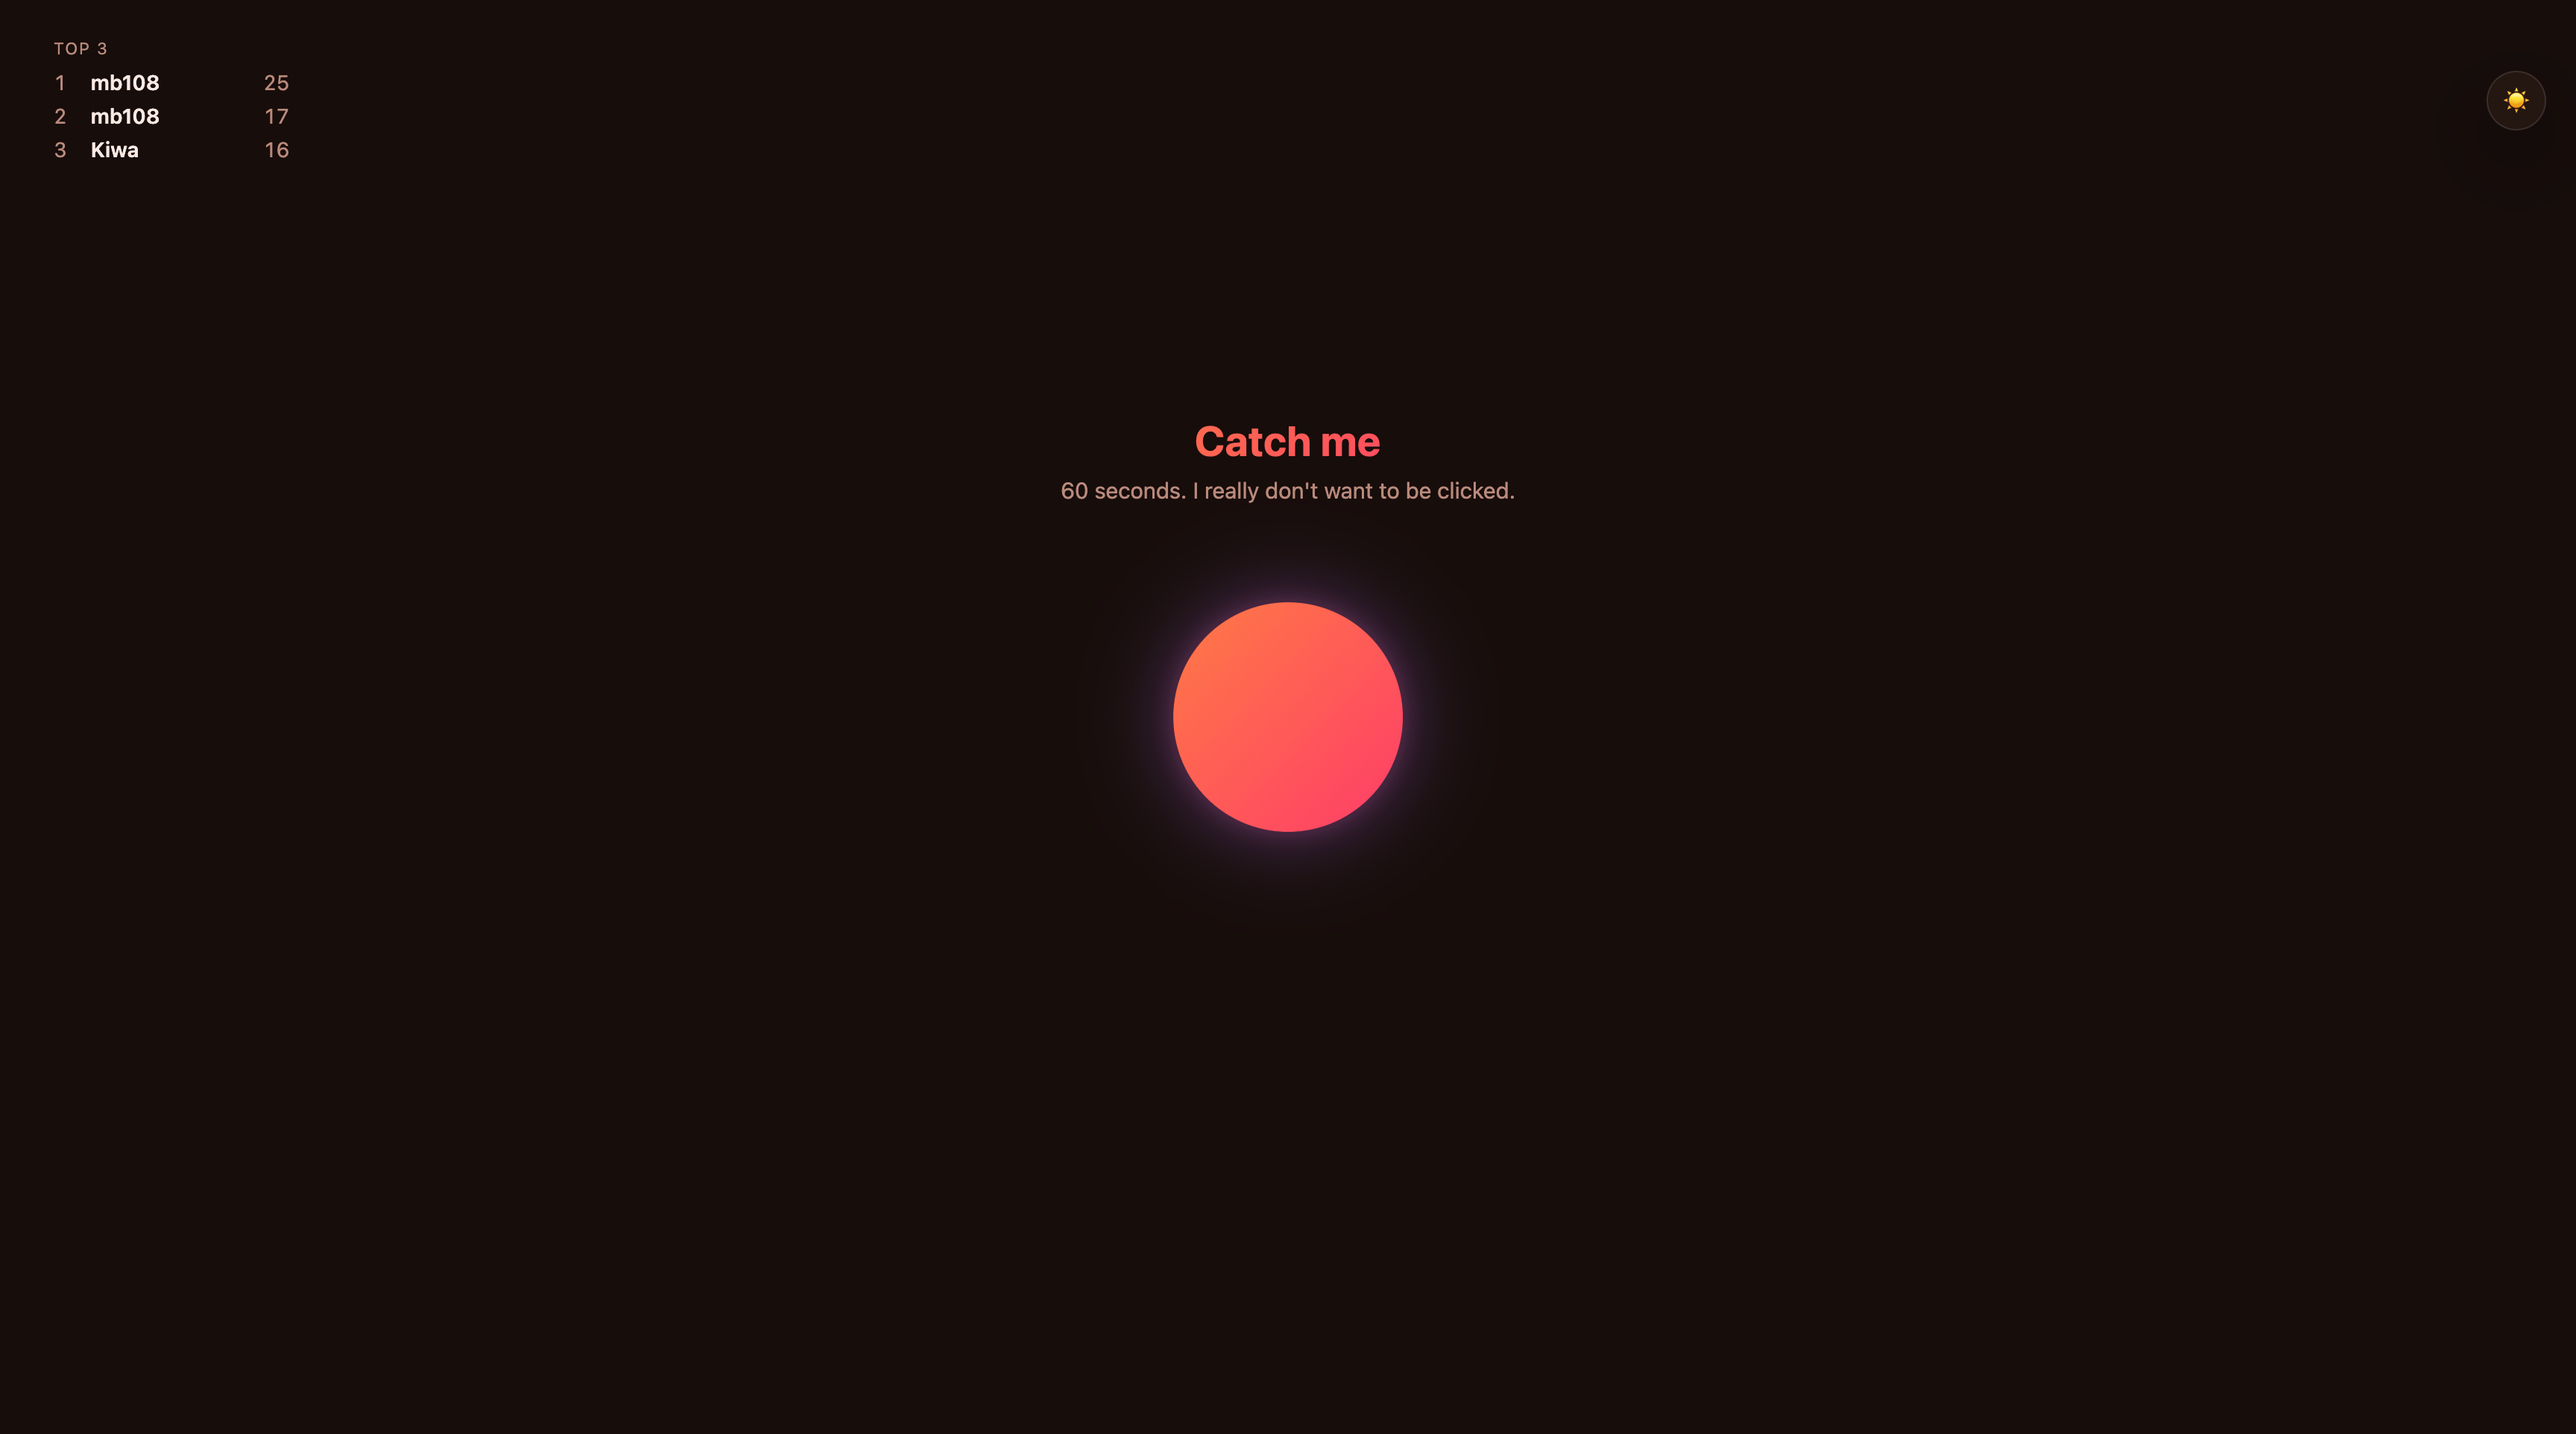
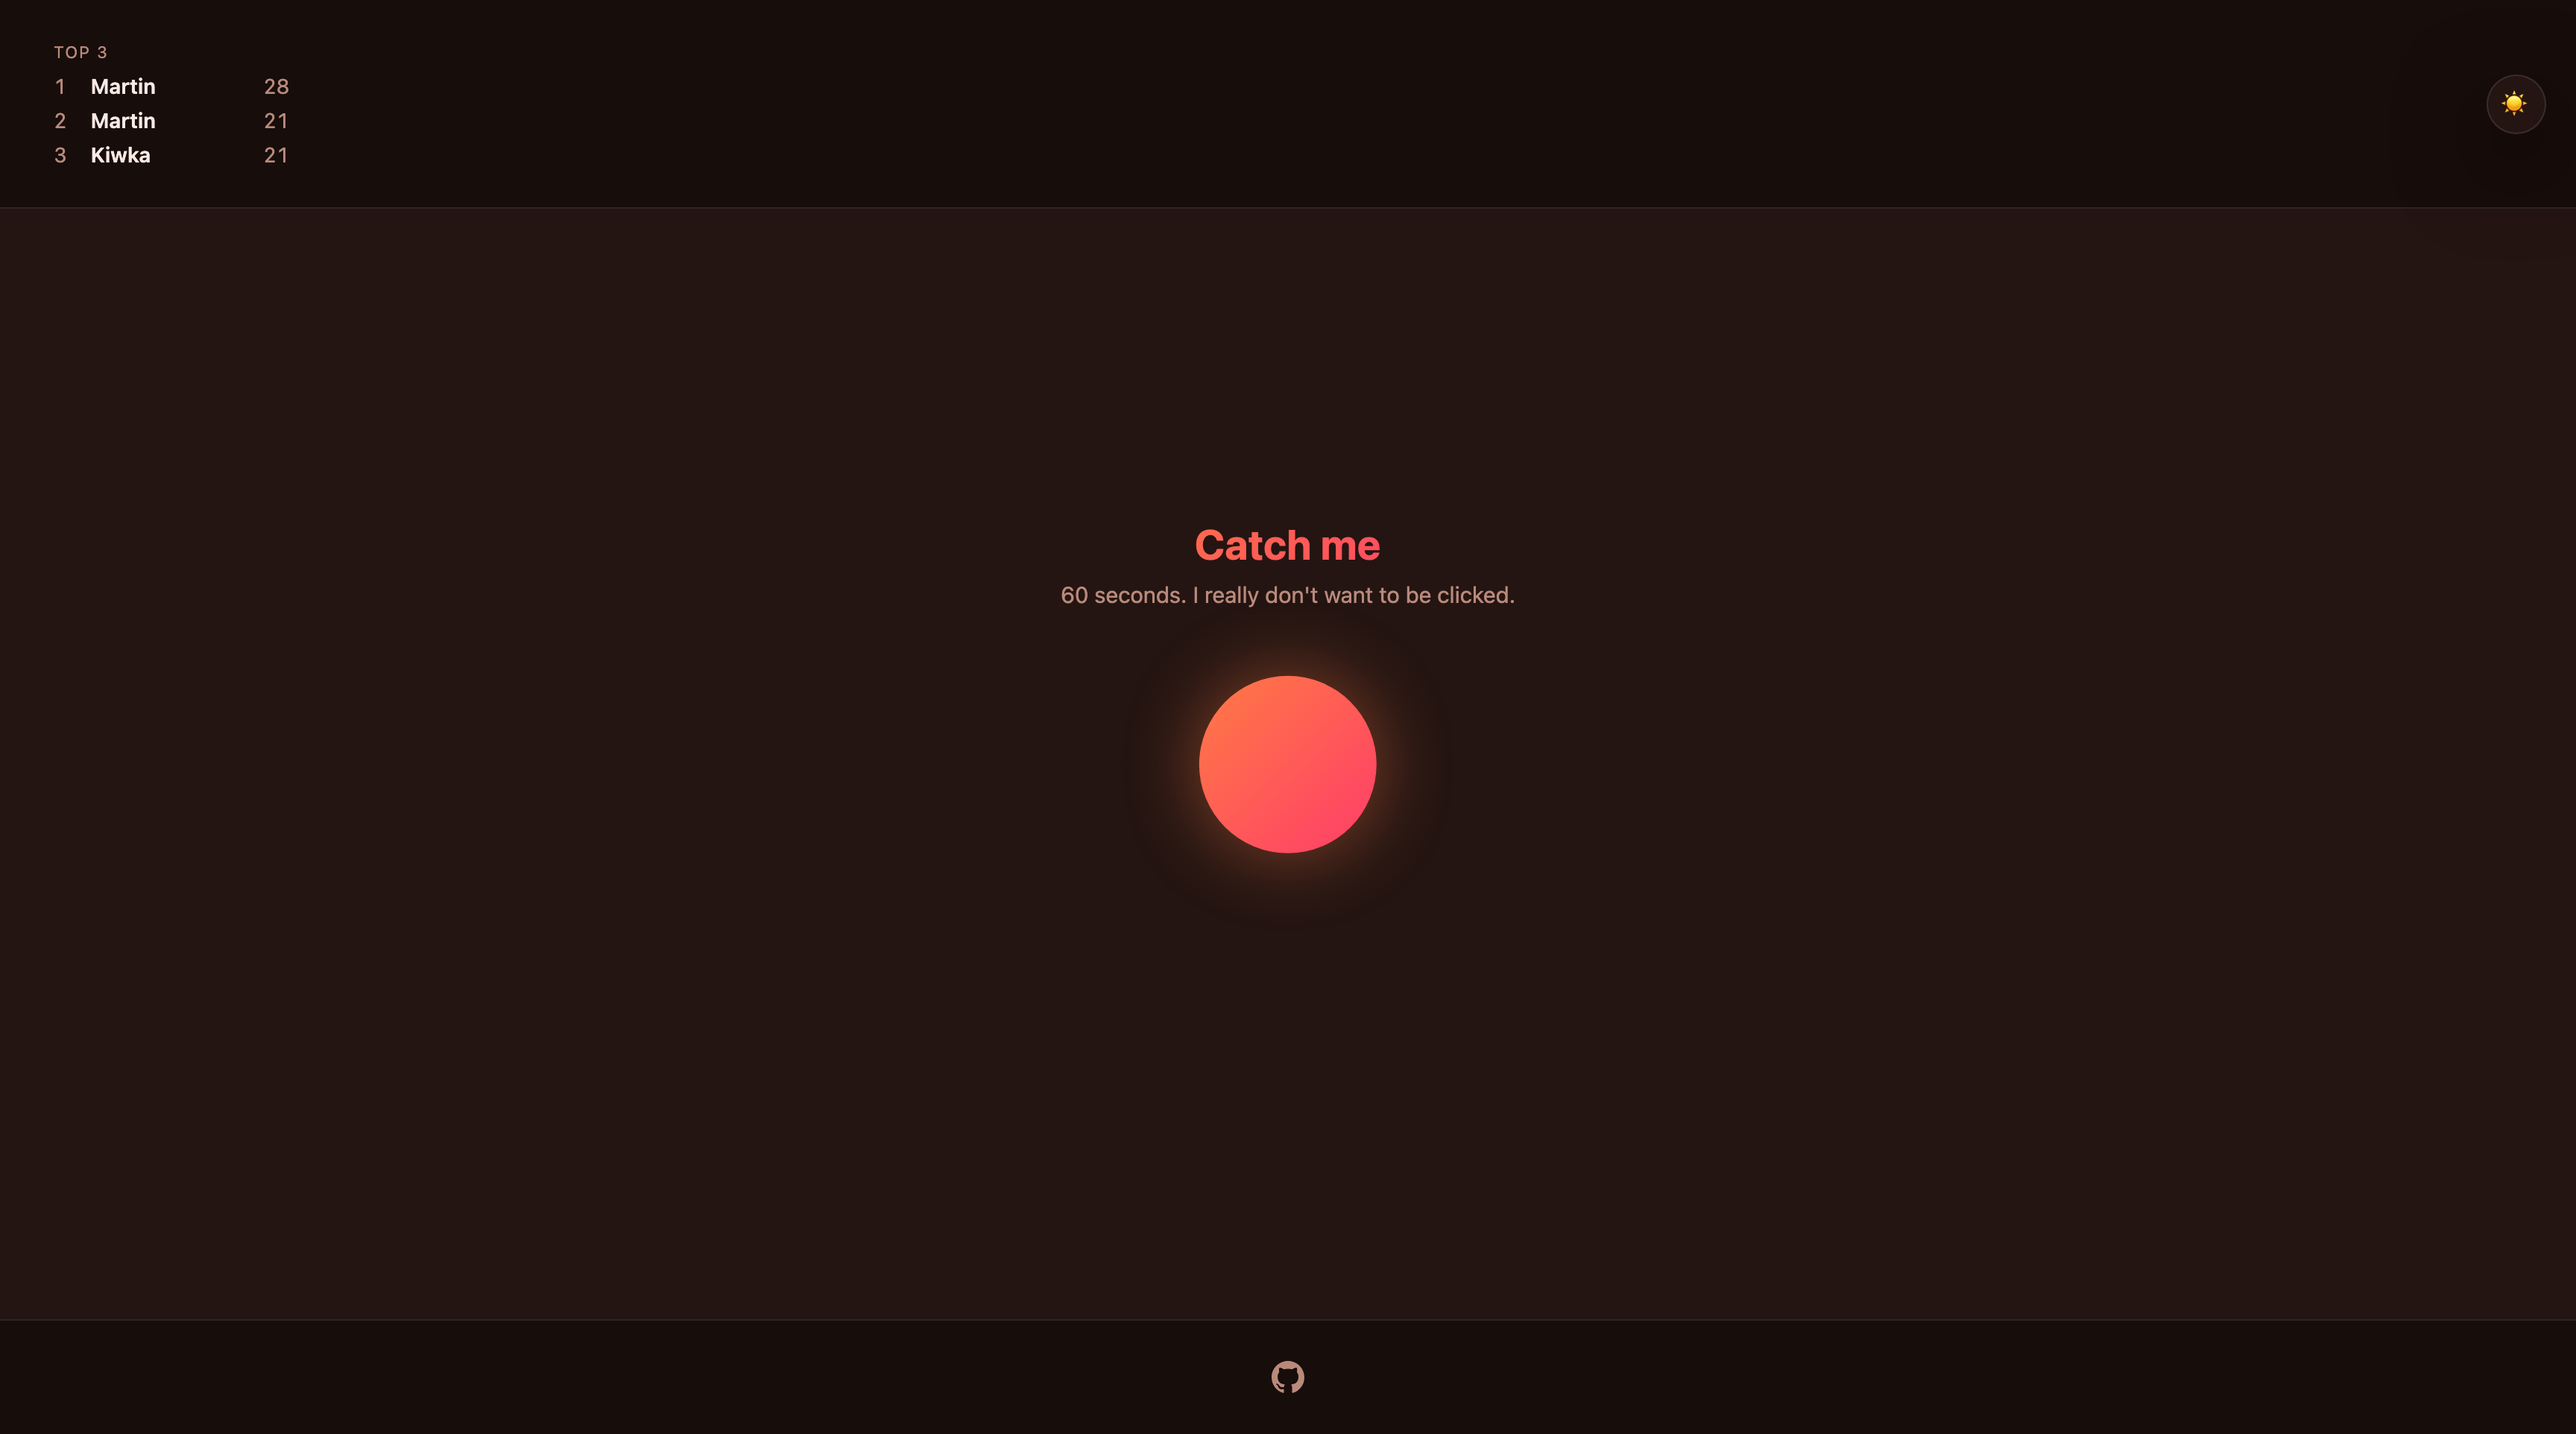
Reshoot the screenshots and OG card for the inset arena
All three images predated 44173ce and still showed the HUD floating
over an edge-to-edge play field, with no bands, no arena boundary and
no footer. Regenerated against a production build at the dimensions
the originals used, so nothing else about them changes.

The OG card is composed for its 1200x630 frame rather than cropped
down from the wide shot as before — cropping to that ratio now cuts
the footer band off, which is half of what the new layout looks like.
Rendered at 2x and downsampled so the type stays crisp.

The mid-round shot is a real round driven through the browser rather
than a staged DOM: it landed 3 of 5 attempted clicks because the
button genuinely dodged out from under two of them, which seemed the
honest number to put on the board. Replaces the old shot's CLICKS 0.

og:image gains a version, because the file keeps its path. Scrapers
cache preview images by URL and won't re-fetch one they've already
unfurled, so every link already shared would keep showing the old
screenshot for as long as Discord/Slack/X held it. Bump the constant
whenever the image is regenerated.

Also: Vitest now covers an integration test as well, so the stack list
says so. The rest of the README needed nothing — the arena change
doesn't touch the seeded-engine and replay-verification story it tells.

diff --git a/nuxt.config.ts b/nuxt.config.ts
@@ -18,6 +18,15 @@ const SITE_URL = 'https://misbutton.vercel.app'
 const SITE_DESCRIPTION =
   "A button that really doesn't want to be clicked. You get 60 seconds — it sees your cursor coming and dodges. How many times can you catch it?"
 
+/**
+ * Bump whenever public/og.png is regenerated. Scrapers cache preview images
+ * by URL and won't re-fetch one they've already unfurled, so replacing the
+ * file in place leaves every link already shared to Discord/Slack/X showing
+ * the old screenshot — for as long as their caches hold it. Versioning the
+ * URL is what makes it a fetch they haven't done before.
+ */
+const OG_IMAGE_VERSION = 2
+
 // https://nuxt.com/docs/api/configuration/nuxt-config
 export default defineNuxtConfig({
   compatibilityDate: '2025-07-15',
@@ -69,7 +78,7 @@ export default defineNuxtConfig({
         { property: 'og:title', content: 'Misbutton' },
         { property: 'og:description', content: SITE_DESCRIPTION },
         { property: 'og:url', content: SITE_URL },
-        { property: 'og:image', content: `${SITE_URL}/og.png` },
+        { property: 'og:image', content: `${SITE_URL}/og.png?v=${OG_IMAGE_VERSION}` },
         { property: 'og:image:width', content: '1200' },
         { property: 'og:image:height', content: '630' },
         {

diff --git a/README.md b/README.md
@@ -17,7 +17,7 @@ The button's dodge is a deterministic, seeded simulation (`shared/evasionEngine.
 - **[Nuxt 4](https://nuxt.com/)** (Vue 3 + Nitro) — full-stack framework, server API routes and the client app in one codebase
 - **TypeScript** throughout, client and server
 - Plain CSS (custom properties, no UI framework, no animation library)
-- **[Vitest](https://vitest.dev/)** for unit and API-route tests
+- **[Vitest](https://vitest.dev/)** for unit, API-route, and integration tests
 - Deployed on **[Vercel](https://vercel.com/)**, with **[Upstash Redis](https://upstash.com/)** backing the leaderboard and round anti-cheat storage
 - **Vercel Web Analytics** and **Speed Insights**
 
